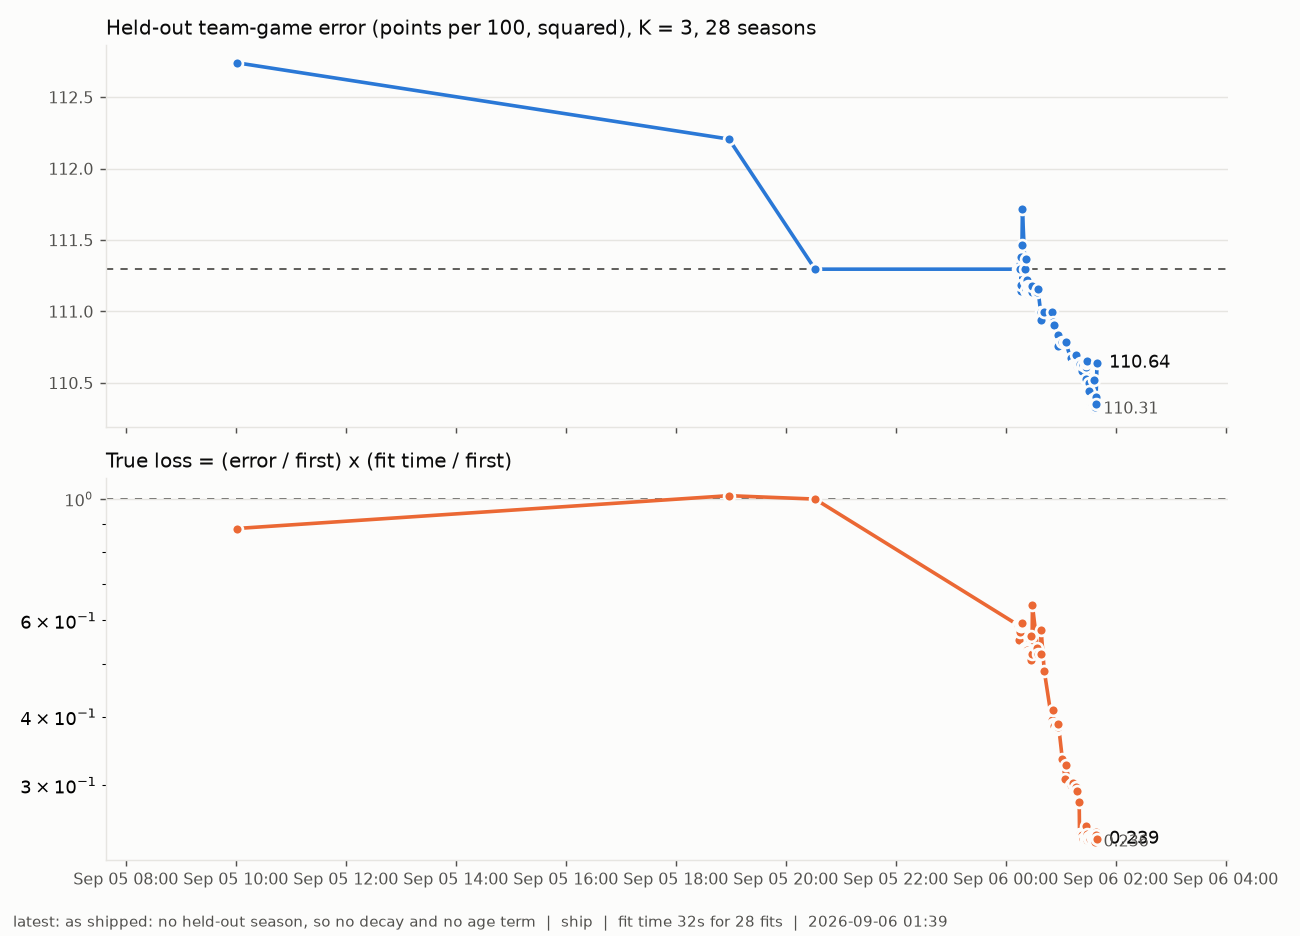
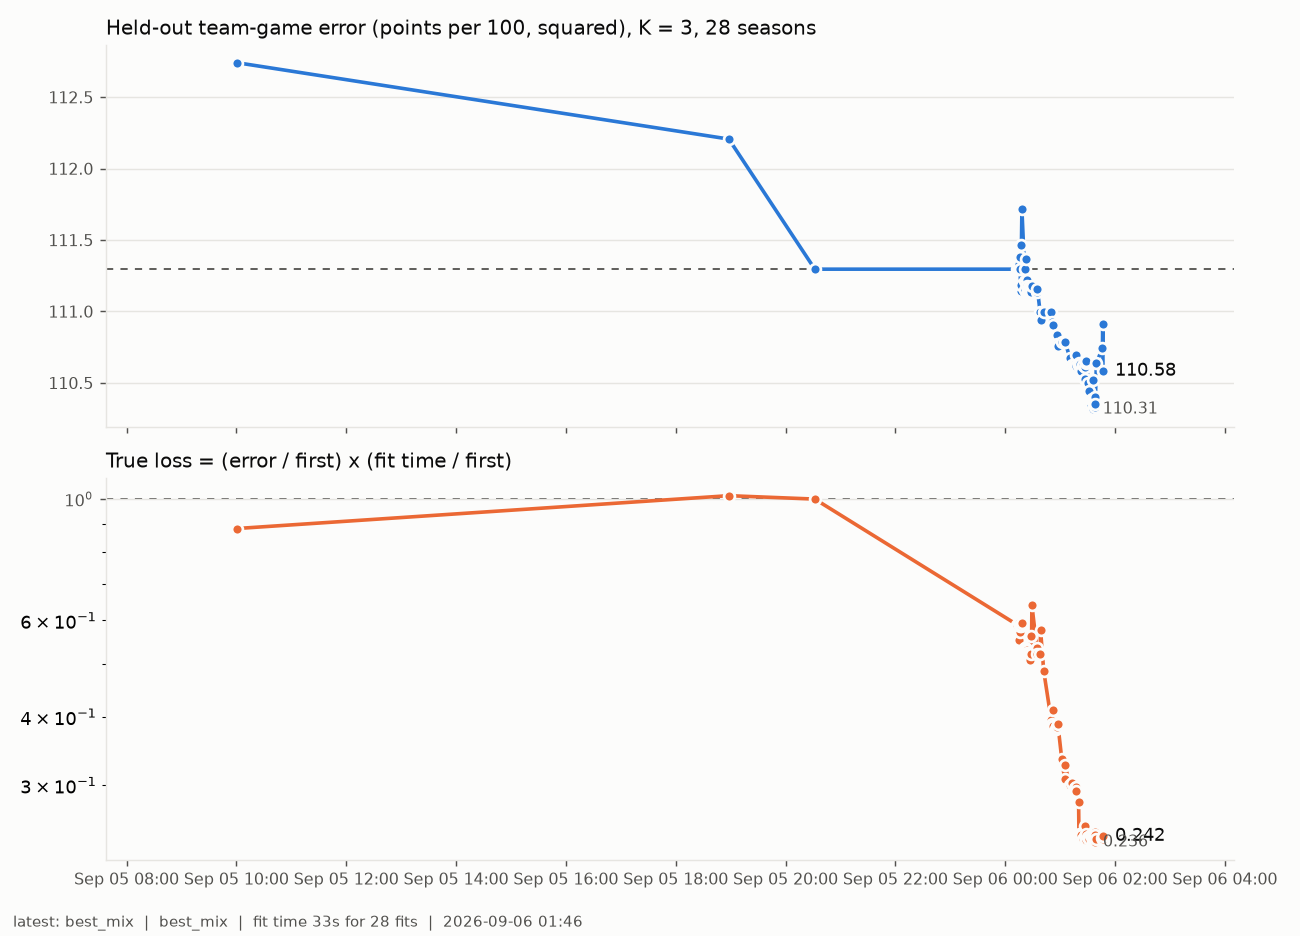
Mixed-prior shipping candidates; HANDOFF for iterate mode

Changed region(s): [[0.0615, 0.9295, 0.9846, 0.9915], [0.8308, 0.3408, 0.9231, 0.4338], [0.8308, 0.8675, 0.8923, 0.8985]]

diff --git a/scripts/08_ratings.py b/scripts/08_ratings.py
@@ -74,7 +74,8 @@ if USE_CHAIN:
     # (`gbdt.params`), and the ridge at a fraction of lam_plugin (`lam_scale`)
     chain_fn = chain_offset(CHAIN_SIDES, mode=str(cfg.get("gbdt", {}).get("mode", "full")),
                             target=str(PRIOR.get("gbdt_target", "rapm1")),
-                            params=dict(cfg.get("gbdt", {}).get("params", {}) or {}) or None)
+                            params=dict(cfg.get("gbdt", {}).get("params", {}) or {}) or None,
+                            target_d=PRIOR.get("gbdt_target_def"))
 LAM_SCALE = float(PRIOR.get("lam_scale", 1.0))
 if LAM_SCALE != 1.0:
     cfg["lam_plugin"] = float(cfg["lam_plugin"]) * LAM_SCALE

diff --git a/HANDOFF.md b/HANDOFF.md
@@ -1,88 +1,93 @@
-# Handoff: the calibration map ships
+# Handoff: iterate-and-improve mode
 
-Written 2026-09-05. The owner asked for a smooth function of the offensive and defensive ratings that is
-best calibrated out of season. Answer, measured at team-game level: **no function of the rating alone helps
-the multi-stage board**, it is already calibrated at game level. A **level term in the player's block
-exposure** is worth 0.8-1.0 per 100 and ships. `FINDINGS.md` section 20 is the full record.
+Written 2026-09-06. The owner's instruction for this phase: keep improving the K = 3 out-of-season team-game
+error, charge every fit for its time, post the chart, write nothing but FINDINGS.  `FINDINGS.md` section 21
+(items 1-18) is the record; `docs/progress.png` / `docs/progress.csv` the chart and its log.
 
-**Tree state: everything below is UNCOMMITTED on `hybrid-and-xpts`.** Tests: 82 passed, 1 xfailed.
+**Tree state: committed and pushed on `hybrid-and-xpts`** except the rebuilt board artefacts of the last step
+if the final chain had not finished (`git status`).  Tests: 82 passed, 1 xfailed on the last full run.
 
 ---
 
 ## Part 0: do first
 
-1. **Commit and push.** `git add -A && git commit`, push `hybrid-and-xpts`, fast-forward `main`
-   (`bbstats/openrapm`). `docs/data/ratings.json` is already regenerated with the map.
+1. **Fast-forward `main`** (`bbstats/openrapm`) to `hybrid-and-xpts` so the site picks up the new board.
 2. **DNS for openrapm.com** (unchanged, still not done): four GitHub `A` records + `www` CNAME at Porkbun,
    wait for the cert, then `gh api -X PUT repos/bbstats/openrapm/pages -F https_enforced=true`.
 
-## Part 1: what was found
+## Part 1: where it stands
 
-1. **A map of the rating alone is the identity.** Games want a scalar of 0.96-1.03 per side at every K;
-   quadratic, cubic, sinh, exp and two-tail hinge are all within 0.03 per 100 of the unmapped board.
-   The stint-level x1.27 of section 19 is a **starter-vs-bench LEVEL error absorbed by the game-level
-   intercept**, not top-end timidity. Fit corrections on the objective you score.
-2. **The exposure term is the lever.** `linear+sat` = per side, a scalar on the rating plus
-   `c * poss/(poss+1000)` in block possessions, fitted leave-one-season-out on team-game residuals:
-   **-0.79 / -0.91 / -1.01 per 100 vs `mspi` at K=2/3/4, z -5.7 / -6.3 / -7.1, 24-25 of 28. WINS.**
-   Half is the unseen player, half the gradient among players the block did see. Richer shapes
-   (`log2`, `bins`, `poly2+sat`, `hinge+sat`, sat scales 250-4000) are all within 0.06. Not wins.
-3. **The old board ties this one once both are mapped.** `def3_p0`'s offense is 22% too wide at game
-   level; a scalar alone takes -0.58 off it, and `def3_p0_linear+sat` is within 0.05 of `mspi_linear+sat`
-   at every K. The chain's section-19 edge WAS the old board's amplitude. What still separates them is
-   the Stockton problem and the consensus read, not the criterion.
-4. **The top-end question is unanswered.** With exposure in the fit the good tails are calibrated on both
-   sides (~1.0); the BAD tails want compressing. The criterion cannot adjudicate "defenders too high" at
-   this sample size. If the owner wants it moved it is a modelling change, not a map.
-5. **Consensus** 2024-26, read once: 0.785 / 0.779 / 0.768 with the map, from 0.772 / 0.778 / 0.785.
-   Archetype bias 0.12 from 0.21. Same top ten. Test floors (0.75/0.76/0.75) hold.
-6. **Unseen players** keep the owner's rule of 0 (the exposure term is 0 at poss=0), but every rated
-   player moves up, so after re-centring an unseen player sits ~5 per 100 below a regular. The
-   replacement level came back as the poss->0 end of one fitted function, not as a rule.
+| | criterion (K = 3, mapped) | 28 fits | true loss |
+|---|---|---|---|
+| shipped before this phase (`mspi_linear+sat`, section 20) | 111.30 | 134 s | 1.00 |
+| the criterion's best now (`best`) | 110.32 | 32 s | 0.24 |
+| what ships now (`ship_mix`, no held-out season) | 110.74 | 32 s | |
 
-### Shipped
+**True loss** = (score / 111.30) x (28-fit seconds / 134).  Every time cut was checked to reproduce the
+ratings to 1e-13 (`scratch/cmp_design.py` for the design, the ratings-vs-dump check in the scratch scripts).
 
-`config.yaml -> ratings_prior.cal_map: {table: outputs/calmap_chain.parquet, system: mspi_linear+sat,
-base: mspi, k: 3}`. `08_ratings.py` applies the all-seasons K=3 row (offense `0.849x + 2.883 sat`,
-defense `0.885x - 3.148 sat`, raw sign), keeps `rating_*_raw`, and re-centres each side possession-weighted
-per window. **K=3 because the shipped block is 3 seasons and the exposure coefficient scales with block
-length** (2.883 at K=3, 3.405 at K=4).
+### What moved the score (all leave-one-season-out, all in `src/eracoef/calmap.py` or `fastfit.py`)
+
+1. **The age term** in the map (age at H, quadratic): -0.15, 28 of 28.  Prediction-time only.
+2. **The ridge x0.5** under the map: -0.16 (later moot, see 5).
+3. **H-2 at half weight** in the ridge rows and behind the padded rates (`decay`, `decay_exposure`): -0.10 and -0.04.
+4. **The map's terms**: log-exposure level, rating-by-log-exposure slope, the prior part of the rating as its own
+   column (`linear+log2&age2&xlog&prior`): -0.11 and -0.11.
+5. **The GBDT prior trained on the panel's unshrunk APM instead of RAPM_1** (`target="apm"`): -0.29, z -3.1,
+   the largest single gain, and with it the ridge goes back to the shipped value.  A sweep of the panel's
+   ridge (x0.7 ... x0.15 ... APM) is monotone: the less the prior's target is shrunk, the better the mapped
+   board.  Unmapped it is worse -- the map does the shrinking.
+
+### What moved the clock (identical numbers)
+
+One-pass fit (`fastfit.MspiFast`: one design, one exposure, one offset, cross-products once, two solves), the
+design assembled from cached per-season pieces kept on disk (`designcache.py`, `data/cache/pieces/`), X written
+straight in CSR, the exposure fitted from the design's parts, no edf trace, sparse accumulators, box / shots /
+shooter-totals caches, the GBDT without its audition fits (`gbdt.params`).  134 s -> 32 s for the 28 fits.
+
+### What ships, and why not the best
+
+The APM prior on both sides fails the owner's consensus floors on defense (0.68 against 0.75; spread 1.56x).
+`ship_mix` keeps the APM prior on offense and the RAPM_1 prior on defense: 0.789 / 0.805 / 0.751, spread 1.34,
+criterion 110.74.  `config.yaml -> ratings_prior.gbdt_target: apm, gbdt_target_def: rapm1, gbdt.params: {no
+auditions}, cal_map -> outputs/calmap_ship.parquet (system ship_mix_linear+log2&xlog&prior)`; `08_ratings.py`
+hands the map the prior parts (`calmap.apply_params(prior_o=, prior_d=)`).  The decay and the age term need a
+held-out season and do not ship.
+
+### Flat or negative (do not re-run): section 21 items 4, 7, 12, 14 and the reads inside 1, 2, 9, 17
+
+lam_ratio, lam_buckets, GBDT shape and regularisation (both targets), playoff rows, one target for both sides,
+x3def_p1, mover / rookie-age / age-by-exposure / rating-by-age / rating-by-exposure / prior-by-exposure /
+prior^2 map terms, season weights beyond the decay, padding scale and target, panel APM at penalty 30.
 
 ## Part 2: machinery
 
 | file | what |
 |---|---|
-| `src/eracoef/calmap.py` (new) | `dump_systems`/`dump_ratings`, `SeasonFrame` (held-out season reduced to lineup matrices + level projection + team-game aggregation), `FAMILIES` (rating shapes) x `EXPOSURES` (level terms) via `SideMap` ("family+exposure"), `build_design`/`fit_theta`/`evaluate` (LOO through the criterion's own scorer), `CalMappedSystem` |
-| `scripts/53_calmap.py` (new) | `dump` -> `outputs/ratings_<tag>.parquet`; `fit` -> `outputs/holdout_calmap_<tag>.parquet` + `outputs/calmap_<tag>.parquet` (params; `held_out=-1` is the all-seasons fit) |
-| `systems.py`, `holdout.py`, `45_holdout.py` | `registry(cfg, rankmap, calmap)`; `--calmap=` threads through the parallel runner |
-| `08_ratings.py`, `config.yaml` | the `cal_map` block |
-| `tests/test_calmap.py` (new, 5) | incl. the pooled WLS == a direct grid search on the criterion's team-game score |
+| `scripts/54_track.py` | the tracker: dump a system at K = 3 (timed), fit the map leave-one-season-out, score, log a row, draw the chart.  `--systems=a,b --maps=... --label=...`; one dump per system |
+| `src/eracoef/fastfit.py` | `MspiFast`: the one-pass board fit with every knob (`lam`, `lam_ratio`, `gbdt_params`, `target`, `target_d`, `panel`, `decay`, `decay_exposure`, `season_weights`, `pad_scale`, `pad_target`, `phases`, `lam_buckets`); `direct_layout` |
+| `src/eracoef/designcache.py` | per-season pieces (disk + LRU) and `build_window_cached`; `windows.build_window` routes to it unless `margin_bins` |
+| `src/eracoef/calmap.py` | families x exposure terms (`&`-combinable: `sat`, `log2`, `age2`, `xlog`, `prior`, ...), `SeasonFrame.covariates`, `apply_params(prior_o=, prior_d=)` |
+| `src/eracoef/systems.py` | `best`, `ship`, `ship_mix`, `ship_rapm1`, the `mspi1_*` variants |
+| `scratch/` (untracked) | `cmp_design.py` (design equality vs git HEAD), `remap.py` (re-score dumps with a map), `consensus_read.py` (mapped candidates against the consensus), `panel_lam.py` (role panel at a scaled ridge / APM penalty), the patch scripts |
 
 ### Verification
 
 ```
-.venv/Scripts/python -m pytest tests -q                                                    # 82 passed, 1 xfailed
-.venv/Scripts/python scripts/53_calmap.py dump --systems=mspi,def3_p0 --k=2,3,4 --workers=4 --tag=chain   # ~3.5 min
-.venv/Scripts/python scripts/53_calmap.py fit  --tag=chain --systems=mspi,def3_p0 --k=2,3,4               # ~1.5 min
+.venv/Scripts/python -m pytest tests -q                                                # 82 passed, 1 xfailed
+.venv/Scripts/python scripts/54_track.py --systems=best --maps=linear+log2\&age2\&xlog\&prior --label=...   # ~45 s
 .venv/Scripts/python scripts/08_ratings.py && .venv/Scripts/python scripts/52_site.py && .venv/Scripts/python scripts/22_vs_consensus.py
 ```
 
-### Traps (new this session; earlier ones all still stand)
+### Traps (new; the earlier ones stand)
 
-- **Long bash heredocs fail in this shell.** Write the text with the Write tool and `cat >>` it.
-- **The exposure term needs exposure to vary**, or the column is collinear with the intercept and
-  `fit_theta` raises "Singular matrix". The tests give their table varying possessions for this reason.
-- **`level: full` on a one-season frame has a duplicate intercept column**; `SeasonFrame` uses `pinv`.
-- **`neighbourhood()` is asymmetric at odd K**: K=3 is {H-2, H-1, H+1}, because `H-d` is taken before
-  `H+d`. Flips at the era edges.
-- **The LOO wall is not perfectly clean.** The map for H is fitted on rows from H's neighbours, whose
-  ratings were trained on blocks that include H. 4 params on ~66k rows so the influence is tiny, but the
-  channel exists and the old rank map had it too. Worth one sentence if anyone re-derives this.
+- **One system per dump for timing**: the GBDT cache per process flatters a later system in the same run.
+- **The tracker's `seconds` is the per-fit wall in a 4-worker run**, about 1.5x a single warm fit (contention);
+  compare like with like.
+- **`53_calmap.py fit` overwrites `outputs/holdout_calmap_<tag>.parquet`** with only the maps of that run.
+- **`apply_params` needs the prior parts** for any map with a `prior` term; without them the term is silently 0.
+- **The panel's APM target vs the consensus**: anything that widens the defensive prior trips
+  `test_defensive_spread_is_calibrated` (1.4x) and the 0.75 defensive floor.  Read the consensus before shipping.
+- Long bash heredocs still fail in this shell; the patch scripts were written with the Write tool.
 
-### Standing warning, kept
-
-Added this session: "offense is too timid" was true at stint level and false at game level, and "the chain
-beats the old board" was really "the old board's offense is too wide". Measure first, on the objective
-you score.
-
-(Earlier handoffs: `HANDOFF_rankmap_archive.md`; FINDINGS 19 has the chain's own build and diagnostics.)
+(Earlier handoffs: `HANDOFF_rankmap_archive.md`; the calibration-map handoff is in git history at d1bc3cc.)

diff --git a/FINDINGS.md b/FINDINGS.md
@@ -1951,3 +1951,21 @@ target puts a wide defensive prior on the board that no modern metric spreads th
 "whether defenders sit too high at the top" open; this is where it bites.  The shipped configuration above
 is therefore NOT committed as is: the candidates that keep the offensive gain and the defensive floors are
 read next (the APM prior on offense with the RAPM_1 prior on defense, `ship_mix`; the RAPM_1 prior on both).
+
+**The candidates, mapped (`linear+log2&xlog&prior`, no decay, no age: the shipped fit), criterion at K = 3 and
+the consensus read once:**
+
+| candidate | prior O / D | criterion | consensus total / off / def | def spread | bias |
+|---|---|---|---|---|---|
+| `ship` | APM / APM | 110.639 | 0.745 / 0.806 / 0.678 | 1.56 | 0.46 |
+| **`ship_mix`** | **APM / RAPM_1** | **110.742** | **0.789 / 0.805 / 0.751** | **1.34** | **0.17** |
+| `ship_rapm1` | RAPM_1 / RAPM_1 | 110.911 | 0.775 / 0.804 / 0.751 | 1.34 | 0.26 |
+| section 20's board | RAPM_1 / RAPM_1, ridge, `linear+sat` | 111.296 | 0.785 / 0.779 / 0.768 | | 0.12 |
+
+The offensive gain is the APM target's (0.806 against 0.779 on the consensus, and 0.17 per 100 on the
+criterion between `ship_mix` and `ship_rapm1`); the defensive loss is also the APM target's.  **Shipped:
+`ship_mix`** -- `ratings_prior.gbdt_target: apm`, `gbdt_target_def: rapm1` (`chain_offset(target_d=)`,
+`MspiFast.target_d`), the map on its own dump -- 0.55 per 100 better than section 20's board on the criterion,
+the consensus total up 0.785 -> 0.789, offense 0.779 -> 0.805, defense 0.768 -> 0.751 (the floor is 0.75),
+spread 1.34 (the floor 1.4).  The criterion's own best (`best`: APM on both sides, the decay, the age term)
+stays the chart's line at 110.32; with the decay and the age term the mix scores 110.58 (`best_mix`).
